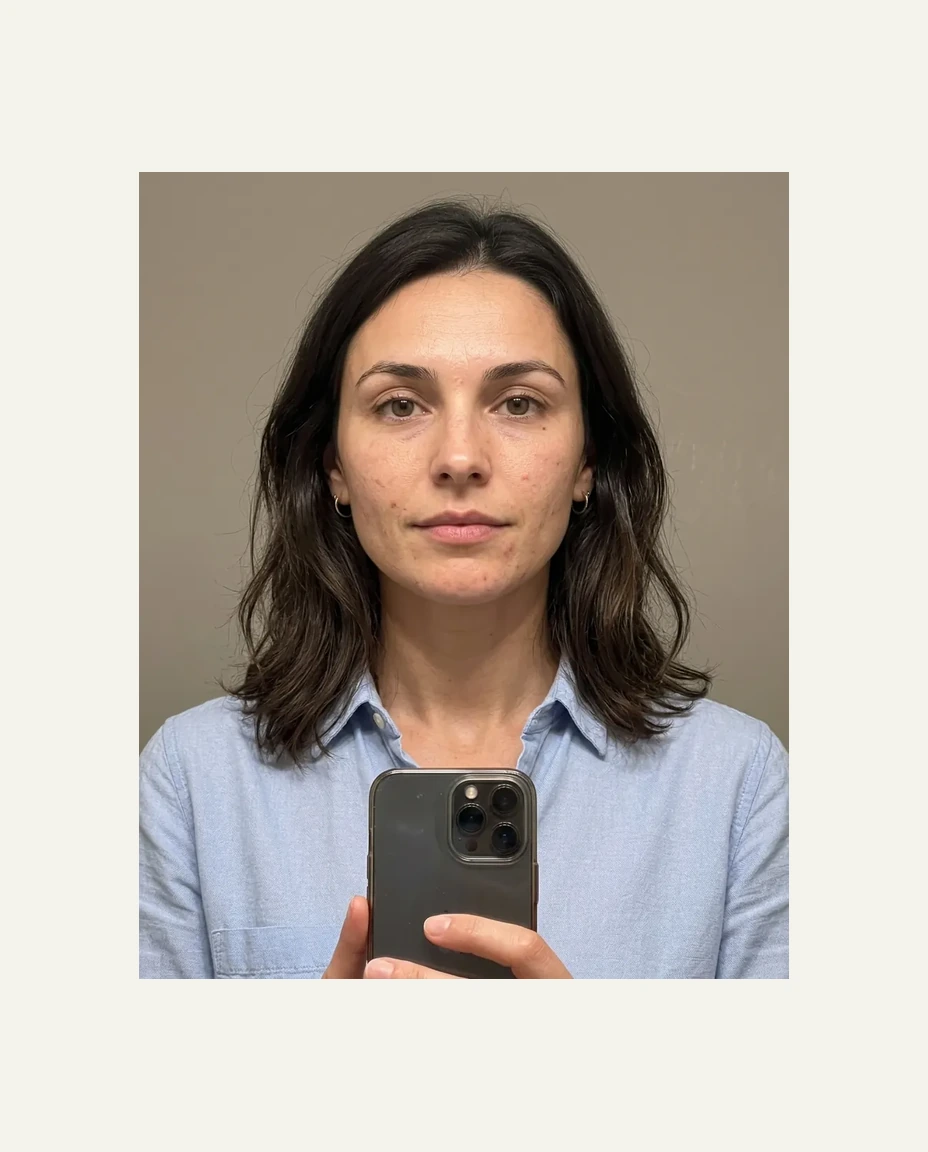
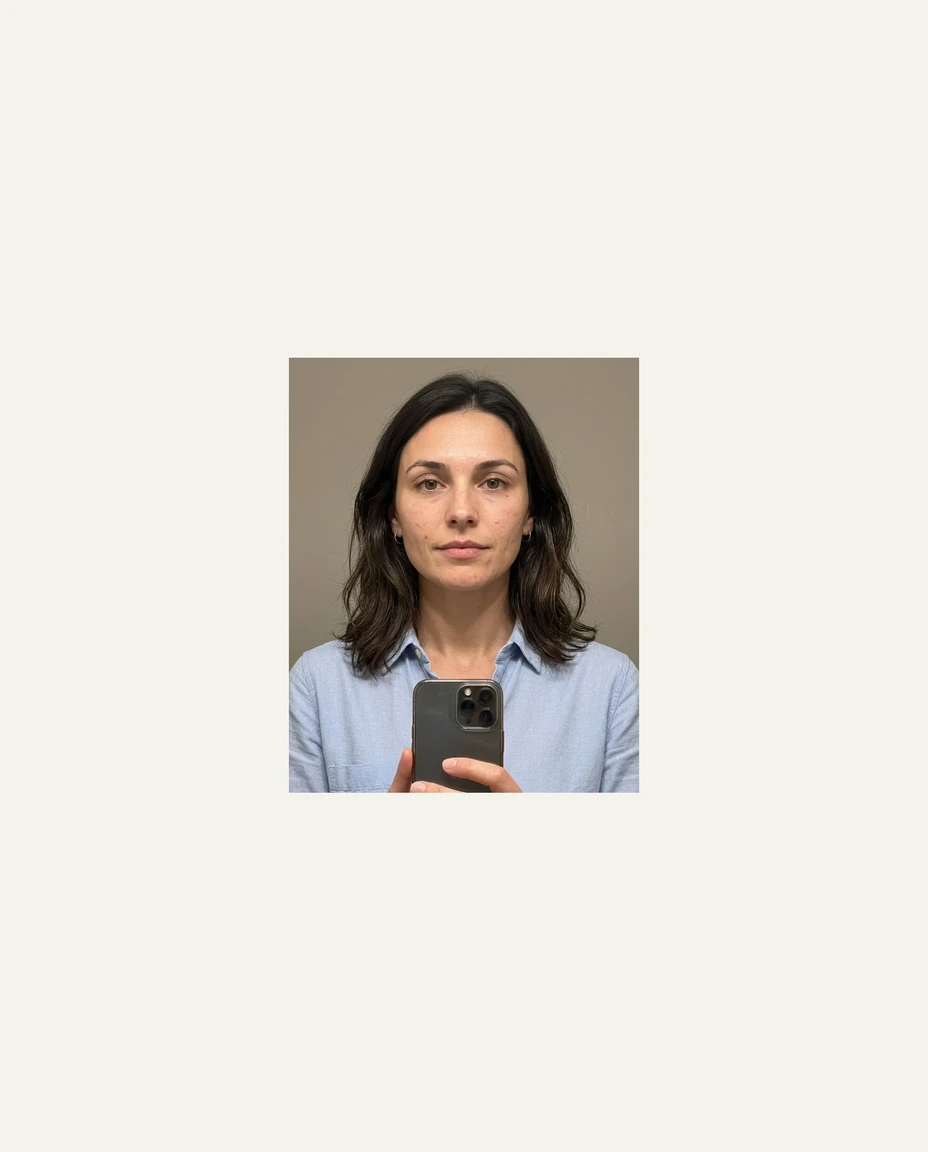
Prevent image stretching and refit selfie previews

diff --git a/apps/web/src/app/globals.css b/apps/web/src/app/globals.css
@@ -131,7 +131,7 @@ a {
   background:
     linear-gradient(90deg, rgba(0, 0, 0, 0.74) 0%, rgba(0, 0, 0, 0.48) 42%, rgba(0, 0, 0, 0.12) 100%),
     linear-gradient(0deg, rgba(0, 0, 0, 0.52), transparent 54%),
-    url("/studios/modern-office/master-wide.webp?v=2026-08-01-hq-preview-5") center / cover;
+    url("/studios/modern-office/master-wide.webp?v=2026-08-02-fit-images-1") center / cover;
   inset: 0;
   position: absolute;
 }
@@ -413,7 +413,7 @@ a {
 }
 
 .before-after-selfies {
-  grid-template-columns: repeat(3, minmax(72px, 124px));
+  grid-template-columns: repeat(3, minmax(56px, 96px));
   justify-content: start;
 }
 
@@ -433,11 +433,11 @@ a {
 .before-after-selfies img {
   aspect-ratio: 3 / 4;
   background: #f4f2ec;
-  max-height: 166px;
-  max-width: 124px;
+  max-height: 128px;
+  max-width: 96px;
   object-fit: contain;
   object-position: center;
-  padding: 6px;
+  padding: 8px;
 }
 
 .before-after-results img {
@@ -459,7 +459,7 @@ a {
   align-items: center;
   background:
     linear-gradient(90deg, rgba(28, 27, 24, 0.96) 0%, rgba(28, 27, 24, 0.78) 48%, rgba(28, 27, 24, 0.62) 100%),
-    url("/studios/modern-office/master-wide.webp?v=2026-08-01-hq-preview-5") center / cover;
+    url("/studios/modern-office/master-wide.webp?v=2026-08-02-fit-images-1") center / cover;
   color: var(--background);
   display: grid;
   gap: clamp(24px, 4vw, 64px);
@@ -1703,7 +1703,7 @@ a {
 
 .landing-hero {
   align-items: end;
-  background: url("/studios/modern-office/master-wide.webp?v=2026-08-01-hq-preview-5") center / cover;
+  background: url("/studios/modern-office/master-wide.webp?v=2026-08-02-fit-images-1") center / cover;
   display: grid;
   min-height: min(790px, calc(100vh - 72px));
   padding: 84px clamp(22px, 5vw, 72px) 72px;
@@ -2038,7 +2038,7 @@ h1 {
   aspect-ratio: 4 / 5;
   background:
     linear-gradient(180deg, rgba(0, 0, 0, 0.02), rgba(0, 0, 0, 0.32)),
-    url("/studios/modern-office/master-wide.webp?v=2026-08-01-hq-preview-5") center / cover;
+    url("/studios/modern-office/master-wide.webp?v=2026-08-02-fit-images-1") center / cover;
   border: 1px solid var(--line);
   border-radius: 8px;
   display: grid;
@@ -2181,10 +2181,10 @@ h1 {
 }
 
 .studio-detail-hero {
-  align-items: end;
+  align-items: center;
   display: grid;
   gap: 36px;
-  grid-template-columns: minmax(0, 0.9fr) minmax(360px, 1.1fr);
+  grid-template-columns: minmax(280px, 0.95fr) minmax(320px, 0.85fr);
   padding: 42px clamp(20px, 4vw, 56px) 24px;
 }
 
@@ -2195,10 +2195,14 @@ h1 {
 
 .studio-detail-cover {
   aspect-ratio: 4 / 3;
+  background: #f4f2ec;
   border: 1px solid var(--line);
   border-radius: 8px;
   display: block;
-  object-fit: cover;
+  height: auto;
+  max-height: min(62vh, 620px);
+  object-fit: contain;
+  object-position: center;
   width: 100%;
 }
 
@@ -2210,16 +2214,19 @@ h1 {
 
 .interior-gallery img {
   aspect-ratio: 4 / 3;
+  background: #f4f2ec;
   border-radius: 8px;
   display: block;
-  height: 100%;
-  object-fit: cover;
+  height: auto;
+  max-height: 420px;
+  object-fit: contain;
+  object-position: center;
   width: 100%;
 }
 
 .interior-gallery img:nth-child(1),
 .interior-gallery img:nth-child(9) {
-  grid-column: span 3;
+  grid-column: span 2;
 }
 
 .interior-gallery img:nth-child(n + 2):nth-child(-n + 8) {
@@ -3210,7 +3217,7 @@ h1 {
   aspect-ratio: 4 / 5;
   background: var(--panel-soft);
   display: block;
-  max-height: 360px;
+  max-height: 280px;
   object-fit: contain;
   object-position: center;
   width: 100%;
@@ -3907,6 +3914,10 @@ h1 {
     grid-template-columns: 1fr;
   }
 
+  .studio-detail-cover {
+    max-height: min(58vh, 560px);
+  }
+
   .studio-grid {
     grid-template-columns: 1fr;
   }
@@ -4321,6 +4332,11 @@ h1 {
 
   .interior-gallery {
     grid-template-columns: 1fr;
+  }
+
+  .studio-detail-cover,
+  .interior-gallery img {
+    max-height: 320px;
   }
 
   .interior-gallery-cta {
